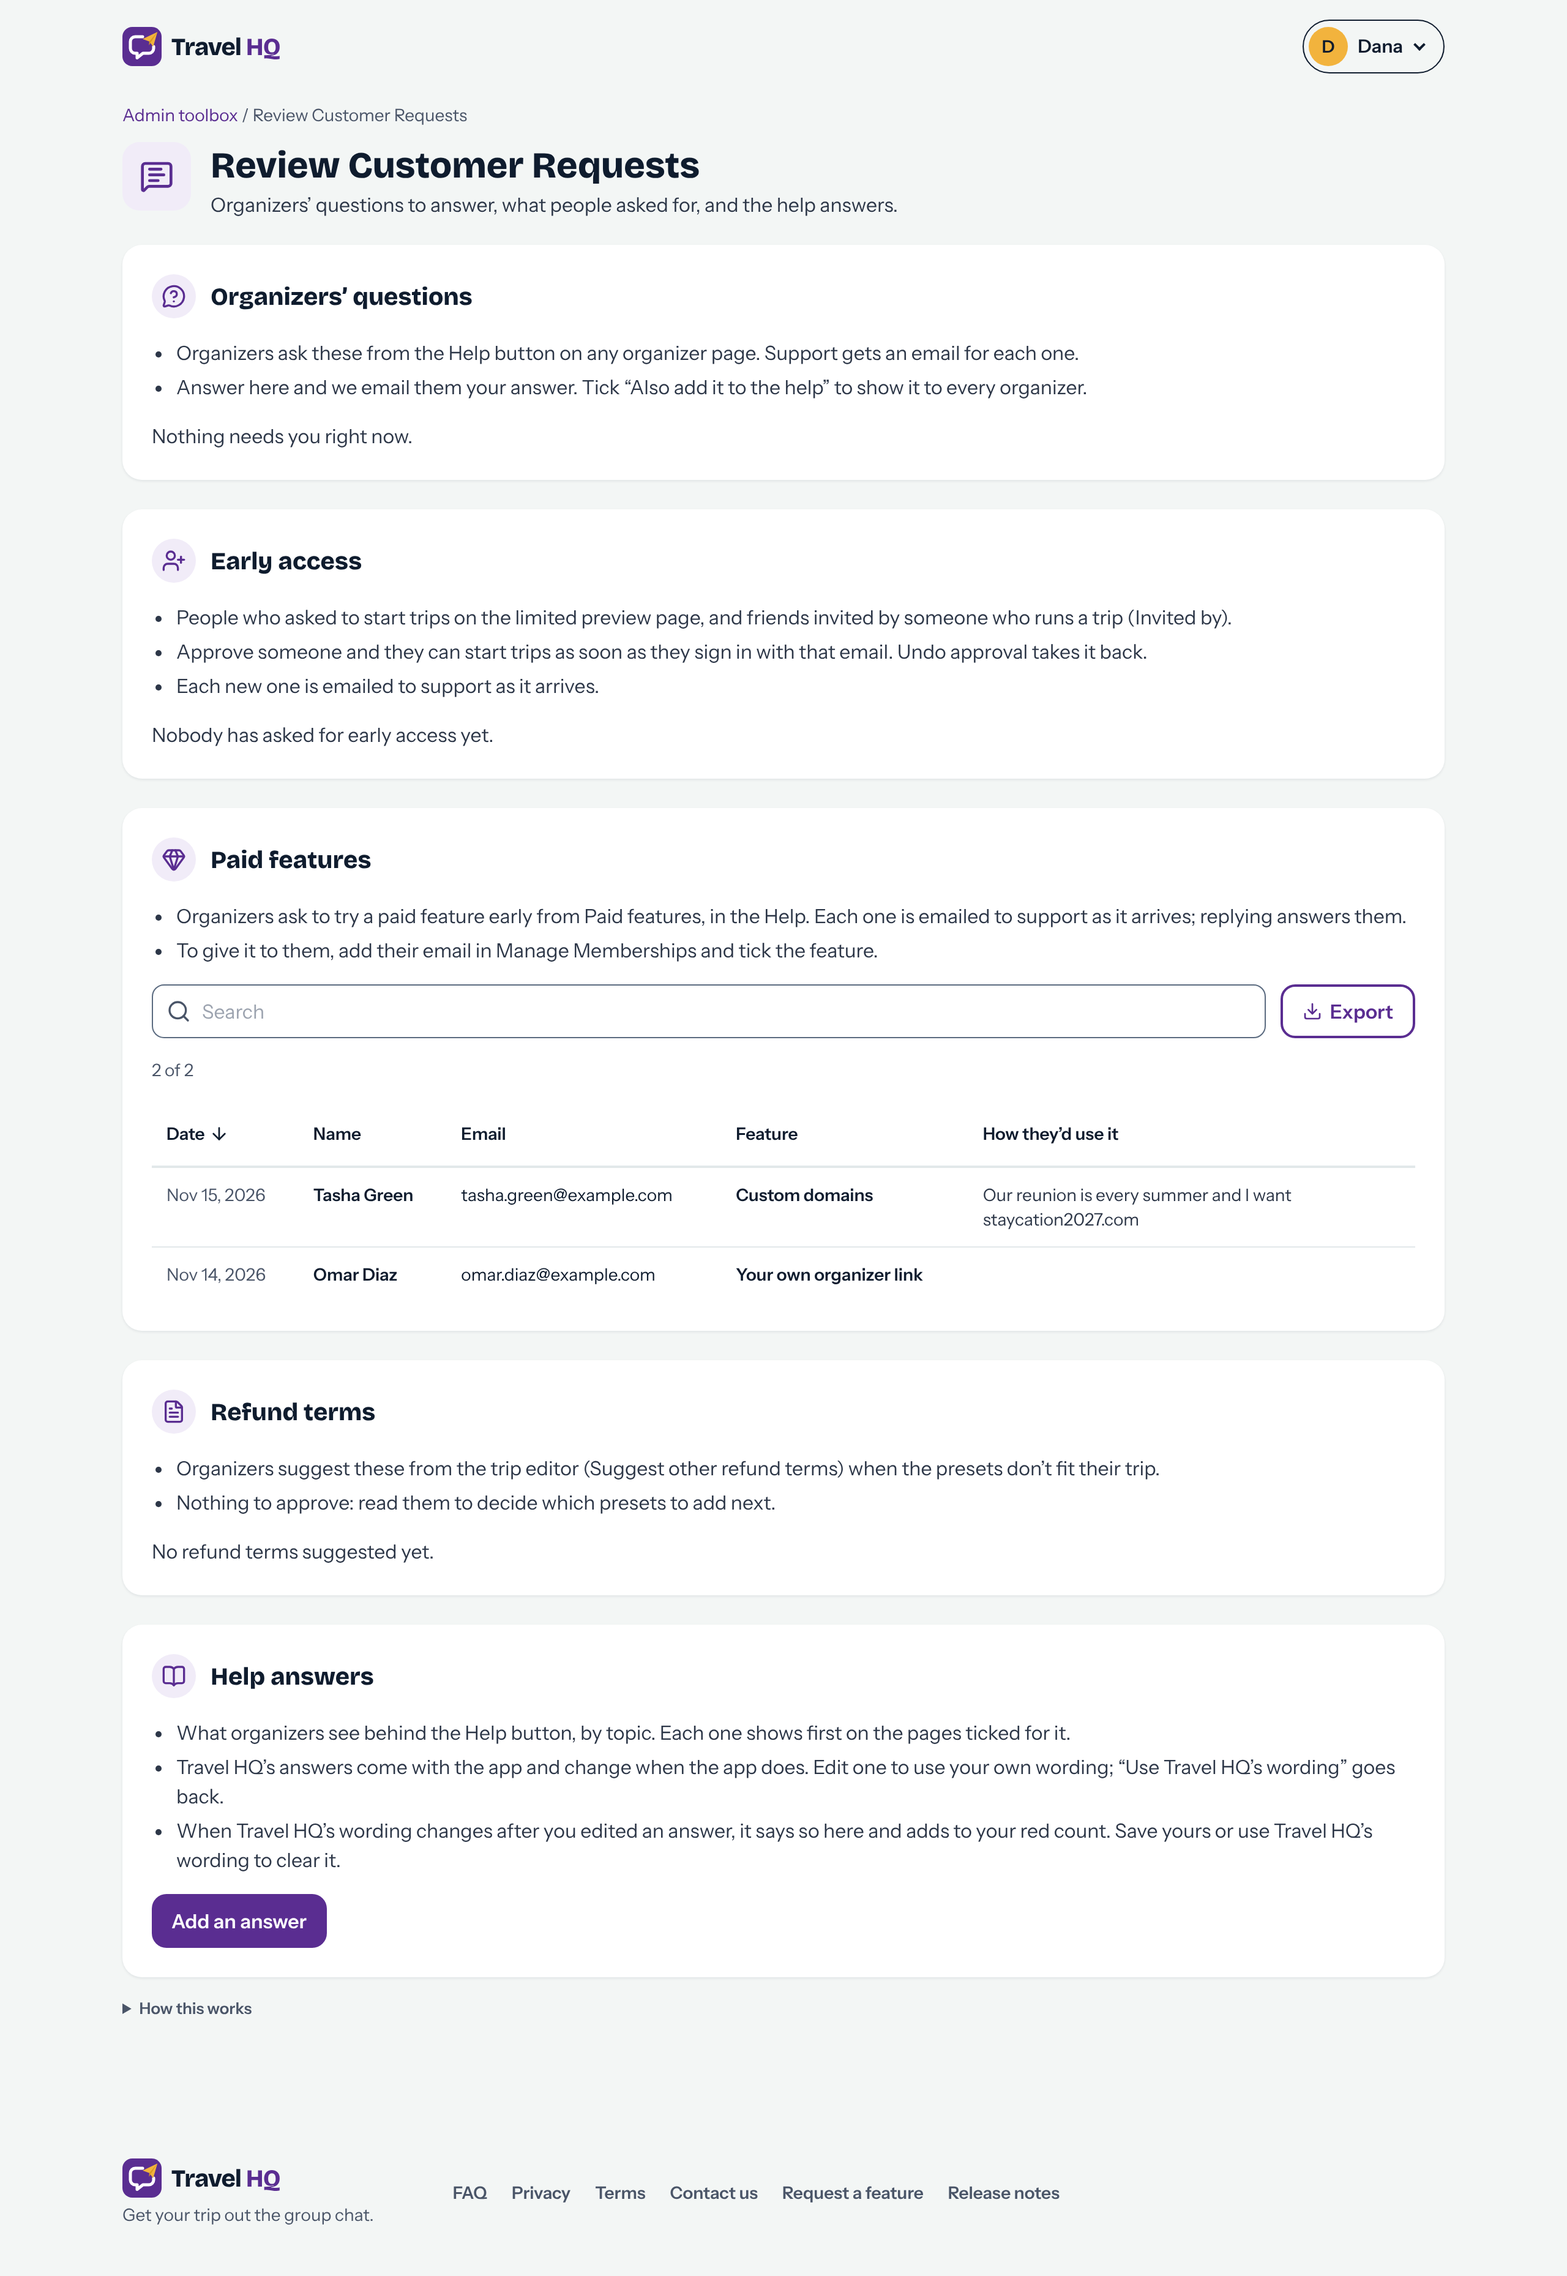
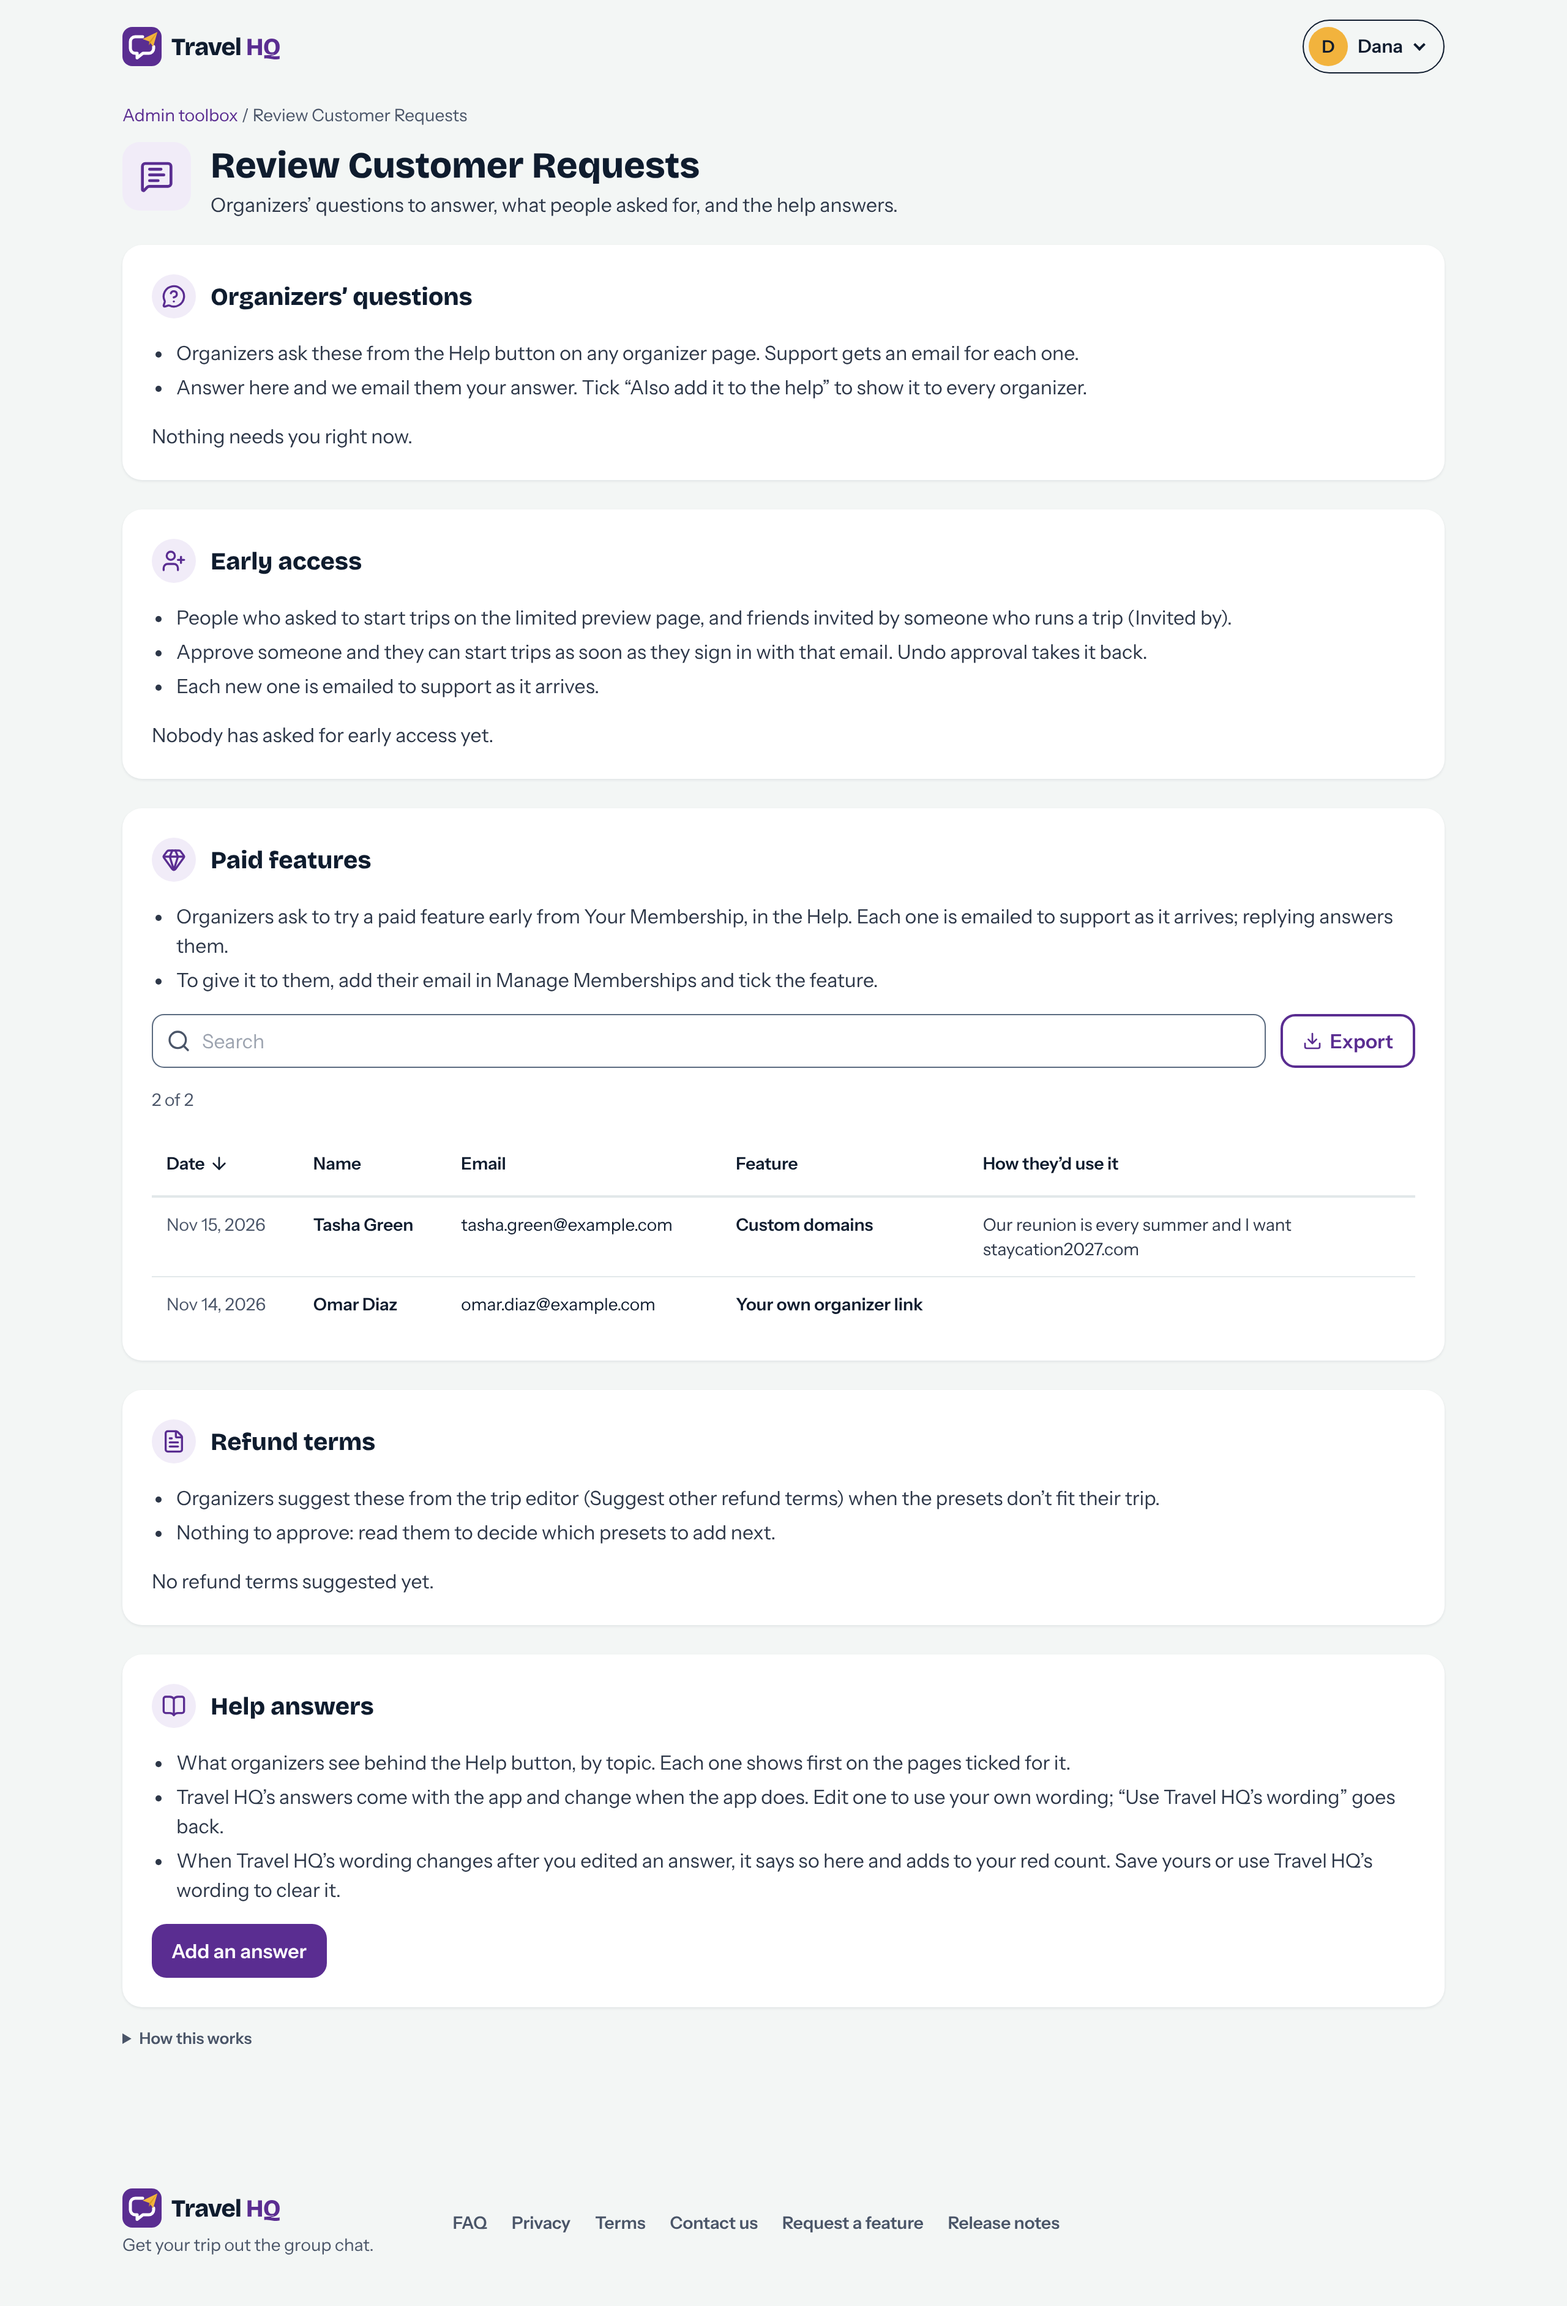
[Platform] Feature tiles in the member dialog; organizer page is Your Membership
Paid features in Add a member / Change are tick-box tiles with a picture,
like the trip editor's choices. The organizer page, its Help link and the
popup link say Your Membership. Help answer paid-features updated to
the new link name.

Refs #90

diff --git a/apps/web/src/pages/AdminMembershipsPage.tsx b/apps/web/src/pages/AdminMembershipsPage.tsx
@@ -5,7 +5,7 @@ import {
   type MembershipInput,
   type PaidFeature,
 } from '@cc/types'
-import { Gem, Plus } from 'lucide-react'
+import { Check, Gem, Globe, Link2, Plus, type LucideIcon } from 'lucide-react'
 import { useEffect, useState, type FormEvent } from 'react'
 import { AdminGrid, type GridColumn } from '@/components/AdminGrid'
 import { ConfirmDialog } from '@/components/ConfirmDialog'
@@ -36,6 +36,12 @@ const when = (iso: string) =>
   new Date(iso).toLocaleDateString('en-US', { month: 'short', day: 'numeric', year: 'numeric' })
 
 type Row = Membership & { id: string }
+
+/** A small picture for each feature's tile. */
+const FEATURE_ART: Record<PaidFeature, LucideIcon> = {
+  organizer_link: Link2,
+  custom_domain: Globe,
+}
 
 /** Today in Eastern time (YYYY-MM-DD), the way the API decides a last day has passed. */
 const todayEastern = () => new Date().toLocaleDateString('en-CA', { timeZone: 'America/New_York' })
@@ -316,30 +322,46 @@ function MemberDialog({
 
         <fieldset className="flex flex-col gap-2">
           <legend className="mb-1.5 font-semibold text-ink">Paid features</legend>
-          {PAID_FEATURES.map((f) => (
-            <label
-              key={f.key}
-              className="flex min-h-[44px] cursor-pointer items-start gap-3 rounded-xl border border-rule px-4 py-3"
-            >
-              <input
-                type="checkbox"
-                checked={features.includes(f.key)}
-                onChange={(e) => toggle(f.key, e.target.checked)}
-                className="mt-0.5 h-5 w-5 shrink-0 accent-royal"
-              />
-              <span className="flex flex-col gap-0.5">
-                <span className="flex flex-wrap items-center gap-2 font-semibold text-ink">
-                  {f.title}
-                  {!f.built && (
-                    <span className="rounded-full bg-royal-pale px-2.5 py-0.5 text-xs font-semibold text-royal">
-                      Coming soon
-                    </span>
-                  )}
-                </span>
-                <span className="text-sm text-body">{f.text}</span>
-              </span>
-            </label>
-          ))}
+          {/* Tiles like the trip editor's pricing choices, with a tick box, since several can be on. */}
+          <div className="grid gap-2 sm:grid-cols-2">
+            {PAID_FEATURES.map((f) => {
+              const on = features.includes(f.key)
+              const Art = FEATURE_ART[f.key]
+              return (
+                <button
+                  key={f.key}
+                  type="button"
+                  role="checkbox"
+                  aria-checked={on}
+                  onClick={() => toggle(f.key, !on)}
+                  className={`relative flex min-h-[44px] flex-col items-start gap-2 rounded-xl border-2 p-3 pr-11 text-left ${
+                    on ? 'border-royal bg-royal-pale' : 'border-rule bg-white hover:border-royal'
+                  }`}
+                >
+                  <span
+                    aria-hidden="true"
+                    className={`absolute right-3 top-3 grid h-6 w-6 place-items-center rounded-md border-2 ${
+                      on ? 'border-royal bg-royal text-white' : 'border-[#5B6B80] bg-white'
+                    }`}
+                  >
+                    {on && <Check className="h-4 w-4" strokeWidth={3} />}
+                  </span>
+                  <Art className="h-7 w-7 text-royal" aria-hidden="true" />
+                  <span className="flex flex-wrap items-center gap-2 font-semibold text-ink">
+                    {f.title}
+                    {!f.built && (
+                      <span
+                        className={`rounded-full px-2.5 py-0.5 text-xs font-semibold text-royal ${on ? 'bg-white' : 'bg-royal-pale'}`}
+                      >
+                        Coming soon
+                      </span>
+                    )}
+                  </span>
+                  <span className="text-sm text-body">{f.text}</span>
+                </button>
+              )
+            })}
+          </div>
           {touched.features && featuresProblem && (
             <span className={problemText}>{featuresProblem}</span>
           )}

diff --git a/apps/web/src/pages/AdminPage.tsx b/apps/web/src/pages/AdminPage.tsx
@@ -52,7 +52,7 @@ const TOOLS: {
     title: 'Manage Memberships',
     text: 'Who has paid features, like their own organizer link or a custom domain, by the email they sign in with.',
     sub: 'Who has which paid features, until when, and what they paid.',
-    how: 'Travel HQ takes no payment for paid features: you give them here by hand and keep a note of what was paid and how. Add the email someone signs in with and tick their features; they needn’t have signed in yet. A person has a feature while their last day hasn’t passed (Eastern time), or always with no last day. Each feature you give them is introduced in a popup the next time they open an organizer page, once. A feature they were shown isn’t shown again, unless their last day had passed and you renew it. Remove them and add them again (or Undo) and they aren’t shown it twice either. After the last day, or when you remove them, the features switch off on their own and nothing breaks: links fall back to the free ones. Features marked Coming soon aren’t built yet, so giving one changes nothing yet but the popup. Organizers ask to try a feature from Paid features in the Help; those asks are in Review Customer Requests.',
+    how: 'Travel HQ takes no payment for paid features: you give them here by hand and keep a note of what was paid and how. Add the email someone signs in with and tick their features; they needn’t have signed in yet. A person has a feature while their last day hasn’t passed (Eastern time), or always with no last day. Each feature you give them is introduced in a popup the next time they open an organizer page, once. A feature they were shown isn’t shown again, unless their last day had passed and you renew it. Remove them and add them again (or Undo) and they aren’t shown it twice either. After the last day, or when you remove them, the features switch off on their own and nothing breaks: links fall back to the free ones. Features marked Coming soon aren’t built yet, so giving one changes nothing yet but the popup. Organizers ask to try a feature from Your Membership in the Help; those asks are in Review Customer Requests.',
   },
   {
     to: '/admin/requests',

diff --git a/apps/web/src/pages/PaidFeaturesPage.tsx b/apps/web/src/pages/PaidFeaturesPage.tsx
@@ -36,7 +36,7 @@ export function PaidFeaturesPage() {
     api
       .myFeatures()
       .then(setMine)
-      .catch(() => setError('Your paid features could not be loaded. Reload to try again.'))
+      .catch(() => setError('Your membership could not be loaded. Reload to try again.'))
   }, [])
 
   return (
@@ -53,10 +53,10 @@ export function PaidFeaturesPage() {
       </header>
       <main className="mx-auto flex max-w-[960px] flex-col gap-6 px-5">
         <div>
-          <h1 className="text-3xl font-extrabold">Paid features</h1>
+          <h1 className="text-3xl font-extrabold">Your Membership</h1>
           <p className="mt-1 text-body">
-            Extras on top of running a trip, which stays free. Travel HQ never takes a cut of the
-            trip money.
+            Paid features on top of running a trip, which stays free. Travel HQ never takes a cut of
+            the trip money.
           </p>
         </div>
         {error && (

diff --git a/apps/api/src/help/help-defaults.ts b/apps/api/src/help/help-defaults.ts
@@ -36,7 +36,7 @@ Travel HQ handles the bookkeeping: sign-ups and the trip agreement, who has paid
     question: 'Does Travel HQ have paid features?',
     answer: `A few extras will be paid upgrades: your own organizer link (travel-hq.app/yourname) and custom domains for a trip. Both are coming soon. Running a trip stays free, and Travel HQ never takes a cut of the trip money.
 
-To try one early, tap "Paid features" at the bottom of this Help, then "Ask for early access". When you get a paid feature, we tell you about it the next time you open Travel HQ.`,
+To try one early, tap "Your Membership" at the bottom of this Help, then "Ask for early access". When you get a paid feature, we tell you about it the next time you open Travel HQ.`,
     pages: ['control', 'features'],
   },
   {

diff --git a/apps/web/src/pages/AdminRequestsPage.tsx b/apps/web/src/pages/AdminRequestsPage.tsx
@@ -195,7 +195,7 @@ export function AdminRequestsPage() {
               icon={Gem}
               title="Paid features"
               steps={[
-                'Organizers ask to try a paid feature early from Paid features, in the Help. Each one is emailed to support as it arrives; replying answers them.',
+                'Organizers ask to try a paid feature early from Your Membership, in the Help. Each one is emailed to support as it arrives; replying answers them.',
                 'To give it to them, add their email in Manage Memberships and tick the feature.',
               ]}
             >

diff --git a/apps/api/src/trips/trip-types.ts b/apps/api/src/trips/trip-types.ts
@@ -1311,7 +1311,7 @@ export const HELP_PAGES: { value: HelpPage; label: string }[] = [
   { value: 'editor:payments', label: 'Editor: Payments' },
   { value: 'editor:customization', label: 'Editor: Customization' },
   { value: 'control', label: 'Trip Control' },
-  { value: 'features', label: 'Paid features' },
+  { value: 'features', label: 'Your Membership' },
 ]
 
 /** The sections of "All topics", in order. */

diff --git a/packages/types/src/index.ts b/packages/types/src/index.ts
@@ -1309,7 +1309,7 @@ export const HELP_PAGES: { value: HelpPage; label: string }[] = [
   { value: 'editor:payments', label: 'Editor: Payments' },
   { value: 'editor:customization', label: 'Editor: Customization' },
   { value: 'control', label: 'Trip Control' },
-  { value: 'features', label: 'Paid features' },
+  { value: 'features', label: 'Your Membership' },
 ]
 
 /** The sections of "All topics", in order. */

diff --git a/apps/web/src/components/HelpButton.tsx b/apps/web/src/components/HelpButton.tsx
@@ -263,7 +263,7 @@ function HelpPanel({ page, tripId }: { page: HelpPage; tripId?: string }) {
       <div className="flex flex-col items-start gap-3 rounded-xl bg-royal-pale px-4 py-3">
         <p className="text-ink">Your paid features, and asking to try one early.</p>
         <Link to="/organize/features" className={outlined}>
-          Paid features
+          Your Membership
         </Link>
       </div>
 

diff --git a/apps/web/src/components/FeatureIntros.tsx b/apps/web/src/components/FeatureIntros.tsx
@@ -74,7 +74,7 @@ export function FeatureIntros() {
             onClick={close}
             className="inline-flex min-h-[44px] items-center justify-center rounded-xl border border-royal px-4 font-semibold text-royal hover:bg-royal-pale"
           >
-            See all paid features
+            See your membership
           </Link>
         </div>
       </div>
